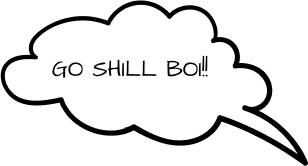
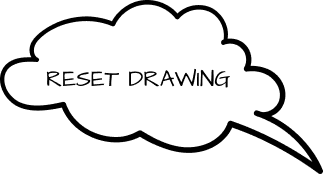
resetbtn and draw done

diff --git a/src/components/DrawingCanvas.jsx b/src/components/DrawingCanvas.jsx
@@ -1,61 +1,94 @@
-import React, { useRef, useState, useEffect } from 'react';
+import React, { useRef, useEffect } from 'react';
+import commentRight from "../assets/img/comment-right.png";
 
-const DrawingCanvas = () => {
+function DrawingCanvas() {
   const canvasRef = useRef(null);
-  const [isDrawing, setIsDrawing] = useState(false);
+  const isDrawingRef = useRef(false);
+  const lastXRef = useRef(0);
+  const lastYRef = useRef(0);
 
   useEffect(() => {
     const canvas = canvasRef.current;
     const ctx = canvas.getContext('2d');
 
+    // Set canvas size
+    canvas.width = window.innerWidth;
+    canvas.height = window.innerHeight;
+
     const startDrawing = (e) => {
-      setIsDrawing(true);
-      draw(e, ctx);
+      isDrawingRef.current = true;
+      [lastXRef.current, lastYRef.current] = [e.clientX, e.clientY];
     };
 
-    const draw = (e, ctx) => {
-      if (!isDrawing) return;
+    const draw = (e) => {
+      if (!isDrawingRef.current) return;
 
       ctx.lineWidth = 2;
       ctx.lineCap = 'round';
       ctx.strokeStyle = '#000';
 
+      ctx.beginPath();
+      ctx.moveTo(lastXRef.current, lastYRef.current);
       ctx.lineTo(e.clientX, e.clientY);
       ctx.stroke();
-      ctx.beginPath();
-      ctx.moveTo(e.clientX, e.clientY);
+
+      [lastXRef.current, lastYRef.current] = [e.clientX, e.clientY];
     };
 
     const stopDrawing = () => {
-      setIsDrawing(false);
-      ctx.beginPath();
+      isDrawingRef.current = false;
     };
 
-    canvas.addEventListener('mousedown', startDrawing);
-    canvas.addEventListener('mousemove', (e) => draw(e, ctx));
+    const toggleDrawing = (e) => {
+      if (!isDrawingRef.current) {
+        startDrawing(e);
+      } else {
+        stopDrawing();
+      }
+    };
+
+    canvas.addEventListener('mousedown', toggleDrawing);
+    canvas.addEventListener('mousemove', draw);
     canvas.addEventListener('mouseup', stopDrawing);
     canvas.addEventListener('mouseout', stopDrawing);
 
-    return () => {
-      canvas.removeEventListener('mousedown', startDrawing);
-      canvas.removeEventListener('mousemove', (e) => draw(e, ctx));
-      canvas.removeEventListener('mouseup', stopDrawing);
-      canvas.removeEventListener('mouseout', stopDrawing);
-    };
-  }, [isDrawing]);
-
-  useEffect(() => {
-    const handleResize = () => {
-      const canvas = canvasRef.current;
+    // Resize canvas with window
+    const resizeCanvas = () => {
       canvas.width = window.innerWidth;
       canvas.height = window.innerHeight;
     };
 
-    window.addEventListener('resize', handleResize);
-    return () => window.removeEventListener('resize', handleResize);
+    window.addEventListener('resize', resizeCanvas);
+
+    // Cleanup
+    return () => {
+      window.removeEventListener('resize', resizeCanvas);
+      canvas.removeEventListener('mousedown', toggleDrawing);
+      canvas.removeEventListener('mousemove', draw);
+      canvas.removeEventListener('mouseup', stopDrawing);
+      canvas.removeEventListener('mouseout', stopDrawing);
+    };
   }, []);
 
-  return <canvas ref={canvasRef} id="drawingCanvas" />;
-};
+  const resetCanvas = () => {
+    const canvas = canvasRef.current;
+    const ctx = canvas.getContext('2d');
+    ctx.clearRect(0, 0, canvas.width, canvas.height);
+  };
+
+  return (
+    <>
+      <canvas
+        ref={canvasRef}
+        id="drawingCanvas"
+        style={{ border: '1px solid black' }}
+      />
+      
+      <figure className='commentRight' onClick={resetCanvas}>
+          <img src={commentRight} alt="" />
+        </figure>
+    </>
+  );
+}
 
 export default DrawingCanvas;

diff --git a/src/App copy.jsx b/src/App copy.jsx
@@ -1,0 +1,63 @@
+import Header from './components/Header'
+import Banner from './components/Banner'
+import DrawingCanvas from './components/DrawingCanvas';
+
+function App() {
+  window.onload = function() {
+    const canvas = document.getElementById('drawingCanvas');
+    const ctx = canvas.getContext('2d');
+    let isDrawing = false;
+
+    // Set canvas size
+    canvas.width = window.innerWidth;
+    canvas.height = window.innerHeight;
+
+    // Pencil cursor
[1 lines of base64/hex data omitted]
+
+    // Event listeners
+    canvas.addEventListener('mousedown', startDrawing);
+    canvas.addEventListener('mousemove', draw);
+    canvas.addEventListener('mouseup', stopDrawing);
+    canvas.addEventListener('mouseout', stopDrawing);
+
+    // Functions
+    function startDrawing(e) {
+        isDrawing = true;
+        draw(e);
+    }
+
+    function draw(e) {
+        if (!isDrawing) return;
+
+        ctx.lineWidth = 2;
+        ctx.lineCap = 'round';
+        ctx.strokeStyle = '#000';
+
+        ctx.lineTo(e.clientX, e.clientY);
+        ctx.stroke();
+        ctx.beginPath();
+        ctx.moveTo(e.clientX, e.clientY);
+    }
+
+    function stopDrawing() {
+        isDrawing = false;
+        ctx.beginPath();
+    }
+
+    // Resize canvas with window
+    window.addEventListener('resize', function() {
+        canvas.width = window.innerWidth;
+        canvas.height = window.innerHeight;
+    });
+};
+  return (
+    <>
+    <DrawingCanvas />
+      <Header />
+      <Banner />
+    </>
+  )
+}
+
+export default App

diff --git a/src/assets/scss/_banner.scss b/src/assets/scss/_banner.scss
@@ -16,6 +16,8 @@
             top:35%;
             max-width: 283px;
             transform: translateY(-50%);
+            z-index: 9999;
+            cursor: pointer;
             @include mmd{
                 max-width: 200px;
             }
@@ -25,24 +27,6 @@
             @include ssm{
                 max-width: 60px;
                 top: 28%;
-            }
-        }
-        & .commentRight{
-            position: absolute;
-            right: 0;
-            top:57%;
-            max-width: 283px;
-            transform: translateY(-50%);            
-            @include mmd{
-                top:45%;
-                max-width: 200px;
-            }
-            @include sm{
-                max-width: 100px;
-            }
-            @include ssm{
-                max-width: 60px;
-                top: 40%;
             }
         }
         }
@@ -89,7 +73,6 @@
         }
         .btns{
             position: relative;
-            z-index: 99;
             display: inline-block;
             margin-bottom: 40px;
             @include ssm{

diff --git a/src/components/Banner copy.jsx b/src/components/Banner copy.jsx
@@ -3,6 +3,7 @@ import bannerTopImg from "../assets/img/heroTopImg.png";
 import btnImg from "../assets/img/btnImg.png";
 import workintImg from "../assets/img/workintImg.png";
 import commentLeft from "../assets/img/comment-left.png";
+import commentRight from "../assets/img/comment-right.png";
 import CopyToClipboard from './CopyToClipboard';
 
 export default function Banner() {
@@ -11,6 +12,9 @@ export default function Banner() {
       <div className="container">
         <figure className='commentLeft'>
           <img src={commentLeft} alt="" />
+        </figure>
+        <figure className='commentRight'>
+          <img src={commentRight} alt="" />
         </figure>
         <div className="banner-content">
             <div className="banner-topImg">

diff --git a/src/assets/scss/_base.scss b/src/assets/scss/_base.scss
@@ -78,7 +78,7 @@ nav ul li {
     @include passion-one;
     color: $black;
     position: relative;
-    z-index: 1;
+    z-index: 99;
     @include sm{
         padding: 12px 30px;
         border-radius: 5px;
@@ -109,4 +109,26 @@ nav ul li {
     width: 100vw;
     height: auto;
     z-index: 9;
+}
+
+
+.commentRight{
+    position: absolute;
+    right: 0;
+    top:57%;
+    max-width: 283px;
+    transform: translateY(-50%); 
+    z-index: 99;
+    cursor: pointer;           
+    @include mmd{
+        top:45%;
+        max-width: 200px;
+    }
+    @include sm{
+        max-width: 100px;
+    }
+    @include ssm{
+        max-width: 60px;
+        top: 40%;
+    }
 }
